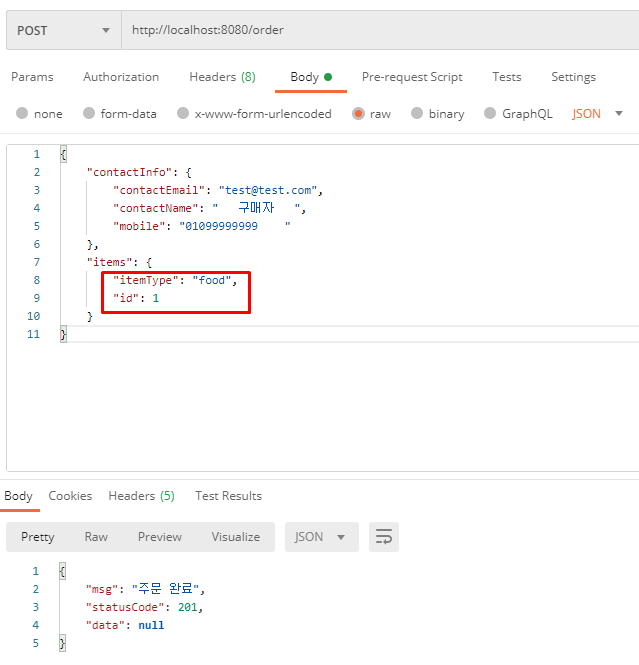
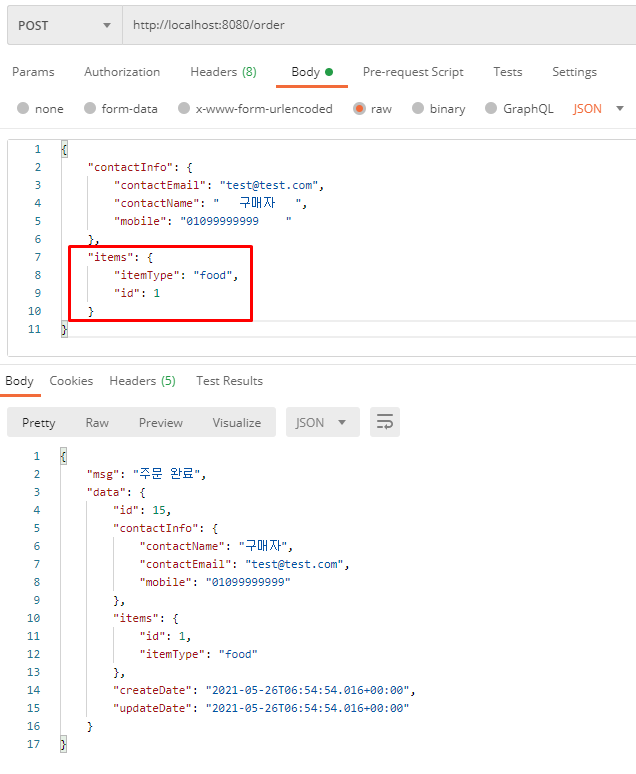
소스코드 수정 및 리드미 수정

diff --git a/src/main/java/com/alethio/service/service/OrderService.java b/src/main/java/com/alethio/service/service/OrderService.java
@@ -1,9 +1,9 @@
 package com.alethio.service.service;
 
 import org.springframework.stereotype.Service;
-
 import org.springframework.transaction.annotation.Transactional;
 
+import com.alethio.service.controller.dto.CMRespDto;
 import com.alethio.service.domain.clothes.Clothes;
 import com.alethio.service.domain.clothes.ClothesRepository;
 import com.alethio.service.domain.food.Food;
@@ -31,27 +31,28 @@ public class OrderService {
 	// 옷 DB
 	private final ClothesRepository clothesRepository;
 
-	public String 주문하기(Orders order) {
+	public CMRespDto<?> orderMain(Orders order) {
 //		IF문 : order의 ItemType 검사
 		if (order.getItems().getItemType().equals("food")) {
-			return 음식주문하기(order);
+			return orderFood(order);
 		} else if (order.getItems().getItemType().equals("clothes")) { 
-			return 옷주문하기(order);
+			return orderClothes(order);
 		} else {
-			return "아이템 없음";
+			return new CMRespDto<>("아이템 없음",null);
 		}
 	}
 	
 	@Transactional
-	public String 음식주문하기(Orders order) {
-//		요청 ID로 아이템 select
+	public CMRespDto<?> orderFood(Orders order) {
+		
+//		요청 ID로 아이템 select (ex 떡볶이 1번, ??? 2번)
 		Food food = foodRepository.findById(order.getItems().getId()).orElseThrow(() -> {
 			// 아이템이 없다면 에러 반환
 			return new IllegalArgumentException("아이템 없음");
 		});
 //		재고가 없을시 실행
 		if (food.getAmount() <= 0) {
-			return "재고가 없습니다.";
+			return new CMRespDto<>("재고가 없습니다",food);
 		}
 //		아이템 수량 -1 [update]
 		food.setAmount(food.getAmount() - 1);
@@ -61,26 +62,25 @@ public class OrderService {
 			입고요청(food.getItemName(), order.getItems().getItemType(), 100L,
 					SecretReceiving.ItemNameToAmadon(food.getItemName()));
 		}
-				orderRepository.save(order);
-				return "주문 완료";
+				
+				return new CMRespDto<>("주문 완료", orderRepository.save(order));			
 	}
 	
 	@Transactional
-	public String 옷주문하기(Orders order) {// 음식주문하기와 같은 로직
+	public CMRespDto<?> orderClothes(Orders order) {// 음식주문하기와 같은 로직
 		 //food와 같은코드
 		Clothes clothes = clothesRepository.findById(order.getItems().getId()).orElseThrow(() -> {
 			return new IllegalArgumentException("아이템 없음");
 		});
 		if (clothes.getAmount() <= 0) {
-			return "재고가 없습니다.";
+			return new CMRespDto<>("재고가 없습니다",clothes);
 		}
 		clothes.setAmount(clothes.getAmount() - 1);
 		if (clothes.getAmount() < 10) {
 			입고요청(clothes.getItemName(), order.getItems().getItemType(), 100L,
 					SecretReceiving.ItemNameToCoumang(clothes.getItemName()));
 		}
-				orderRepository.save(order);
-				return "주문 완료";
+				return new CMRespDto<>("주문 완료", orderRepository.save(order));
 	}
 
 

diff --git a/src/main/java/com/alethio/service/config/BindingAdvice.java b/src/main/java/com/alethio/service/config/BindingAdvice.java
@@ -8,7 +8,6 @@ import org.aspectj.lang.annotation.Around;
 import org.aspectj.lang.annotation.Aspect;
 import org.springframework.http.HttpStatus;
 import org.springframework.stereotype.Component;
-import org.springframework.transaction.annotation.Transactional;
 import org.springframework.validation.BindingResult;
 import org.springframework.validation.FieldError;
 
@@ -19,14 +18,13 @@ import lombok.RequiredArgsConstructor;
 
 @RequiredArgsConstructor
 @Component
-@Aspect
+@Aspect //공통기능 사용 어노테이션
 public class BindingAdvice {
 
 	private final ExceptionList exceptionList;
 
-	@Transactional
 	@Around("execution(* com.alethio.service.controller..*Controller.*(..))") // controller패키지안의 모든 컨트롤러를 검사한다.
-	public Object validCheck(ProceedingJoinPoint proceedingJoinPoint) throws Throwable {
+	public Object validCheck(ProceedingJoinPoint proceedingJoinPoint) throws Throwable { //ProceedingJoinPoint는 공통기능이다
 
 		Object[] args = proceedingJoinPoint.getArgs(); //요청받은 함수들을 args저장
 		for (Object arg : args) { //함수크기만큼 반복문 실행
@@ -40,7 +38,7 @@ public class BindingAdvice {
 						// 에러메세지 출력
 						errorMap.put(error.getField(), error.getDefaultMessage());
 					}					
-					return new CMRespDto<>(HttpStatus.BAD_REQUEST.value(), errorMap);
+					return new CMRespDto<>(errorMap.toString().replaceAll("=", " error : "),null);
 				}
 			}
 		}

diff --git a/src/main/java/com/alethio/service/controller/dto/CMRespDto.java b/src/main/java/com/alethio/service/controller/dto/CMRespDto.java
@@ -1,33 +1,21 @@
 package com.alethio.service.controller.dto;
 
 
-import lombok.AllArgsConstructor;
 import lombok.Data;
 import lombok.NoArgsConstructor;
 
-@AllArgsConstructor
 @NoArgsConstructor
 @Data
 public class CMRespDto<T> {
 	private String msg; // 응답 메세지
-	private int statusCode; // 상태코드 : 200 성공
 	private T data; // 응답 데이터
-	
-	public CMRespDto(int statusCode,  String msg, T data) {
-		this.statusCode = statusCode;
-		this.data = data;
+		
+	public CMRespDto(String msg, T data) {
 		this.msg = msg;
-	}
-	
-	public CMRespDto(int statusCode, T data) {
-		this.statusCode = statusCode;
 		this.data = data;
 	}
 	
-	public CMRespDto(int statusCode, String msg) {
-		this.statusCode = statusCode;
-		this.msg = msg;
-	}
+
 	
 	
 }

diff --git a/src/main/java/com/alethio/service/handler/MyBatch.java b/src/main/java/com/alethio/service/handler/MyBatch.java
@@ -5,6 +5,7 @@ import java.util.List;
 
 import org.springframework.scheduling.annotation.Scheduled;
 import org.springframework.stereotype.Component;
+import org.springframework.transaction.annotation.Transactional;
 
 import com.alethio.service.domain.exception.MyExceptionRepository;
 
@@ -18,6 +19,7 @@ public class MyBatch {
 	private final MyExceptionRepository exceptionRepository;
 
 	// excute함수는 배열안의 모든 에러를 DB에 저장후 배열을 초기화시킨다.
+	@Transactional
 	@Scheduled(fixedDelay = 1000*60) // 1분마다 실행//Cron 정기적 실행
 	public void excute() {
 		List<String> exList = exceptionList.getExList();

diff --git a/src/main/java/com/alethio/service/controller/FrontController.java b/src/main/java/com/alethio/service/controller/FrontController.java
@@ -2,7 +2,6 @@ package com.alethio.service.controller;
 
 import javax.validation.Valid;
 
-import org.springframework.http.HttpStatus;
 import org.springframework.validation.BindingResult;
 import org.springframework.web.bind.annotation.PostMapping;
 import org.springframework.web.bind.annotation.RequestBody;
@@ -26,7 +25,7 @@ public class FrontController {
 	@PostMapping("/order")
 	public CMRespDto<?> order(@Valid @RequestBody OrderReqDto orderReqDto, BindingResult bindingResult) {
 		Orders order = orderReqDto.toEntity();
-		return new CMRespDto<>(201, orderService.주문하기(order));
+		return orderService.orderMain(order);
 	}
 	
 	

diff --git a/src/main/java/com/alethio/service/controller/dto/order/OrderReqDto.java b/src/main/java/com/alethio/service/controller/dto/order/OrderReqDto.java
@@ -1,5 +1,6 @@
 package com.alethio.service.controller.dto.order;
 
+import javax.persistence.Embedded;
 import javax.validation.constraints.NotNull;
 
 import com.alethio.service.domain.order.Orders;
@@ -19,10 +20,12 @@ public class OrderReqDto {
 	
 	//고객 정보 객체
 	@NotNull(message = "고객 정보를 입력하세요")
+	@Embedded
 	private ContactInfo contactInfo;
 	
 	// 주몬 내용 객체
 	@NotNull(message = "주문 정보를 입력하세요")
+	@Embedded
 	private Items items;
 
 	//Request Entity변환 및 trim하기

diff --git a/src/main/java/com/alethio/service/domain/receiving/ReceivingRepository.java b/src/main/java/com/alethio/service/domain/receiving/ReceivingRepository.java
@@ -1,9 +1,10 @@
 package com.alethio.service.domain.receiving;
-
+import javax.transaction.Transactional;
 import org.springframework.data.jpa.repository.JpaRepository;
 
 public interface ReceivingRepository extends JpaRepository<Receiving, Long> {
 	
+	@Transactional
 	Receiving findByItemName(String itemName);
 	
 }

diff --git a/src/main/java/com/alethio/service/handler/MyExceptionHandler.java b/src/main/java/com/alethio/service/handler/MyExceptionHandler.java
@@ -22,6 +22,6 @@ public class MyExceptionHandler {
 	@ExceptionHandler(value = Exception.class)
 	public CMRespDto<?> AllException(Exception e) {
 		exceptionList.addExceptionList(e.getMessage());
-		return new CMRespDto<>(400, e.getMessage());
+		return new CMRespDto<>(e.getMessage(),null);
 	}	
 }
